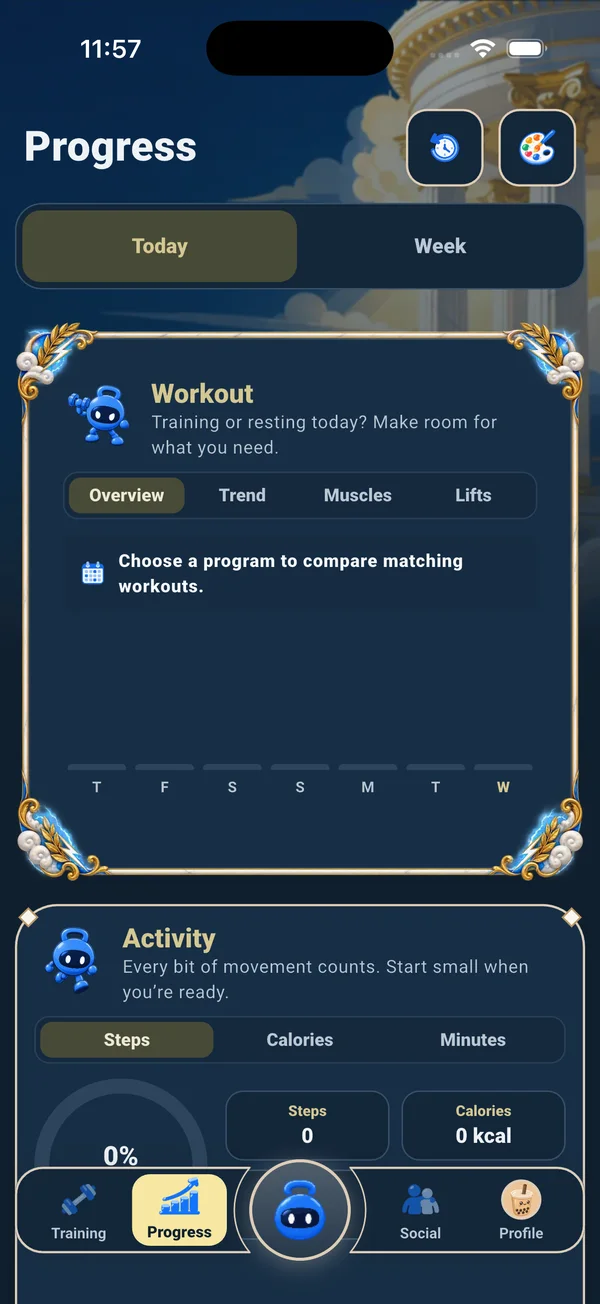
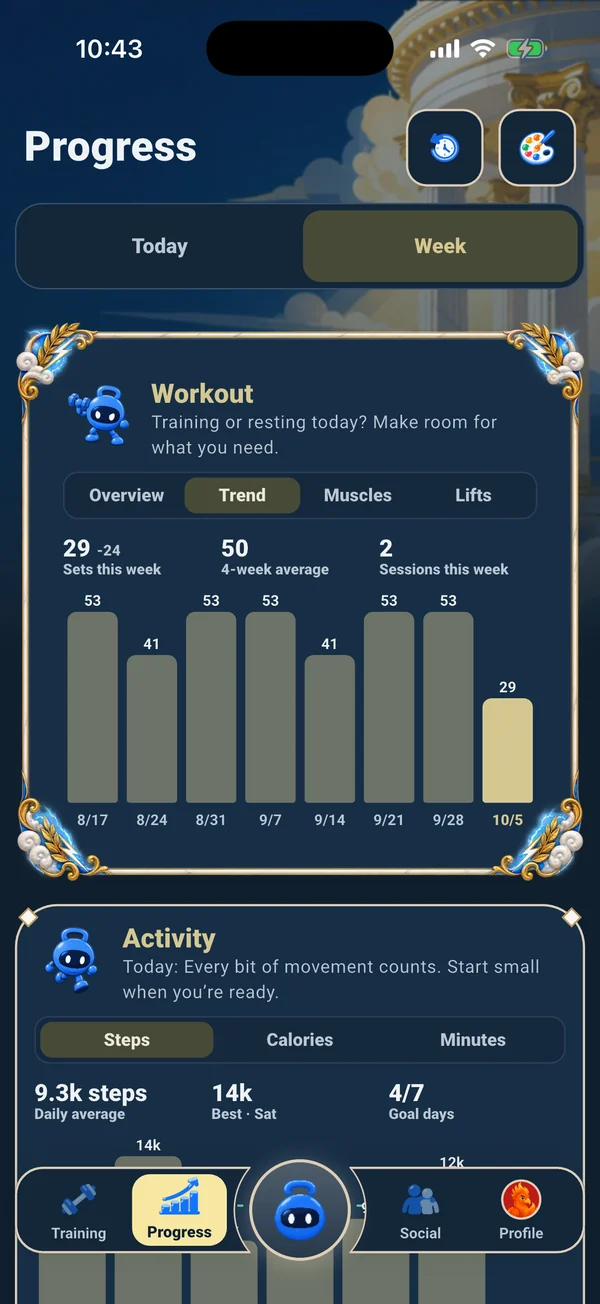
Home: real app screens from a demo lifter, plus a Workout screen
The five app screens were empty first-run states with Eric's own profile.
They're now captured from the real app (iOS Simulator) with a fictional demo
lifter, Jordan: 12 weeks of an upper/lower plan, friends, a leaderboard and an
Orbi answer grounded in the log. A live Workout screen joins the Log section,
whose copy is about next-set targets and rest timers. Tap spots now land on
the control that leads to the next screen.

Captured with Ora's tool/marketing/capture_screenshots.sh.

Claude-Session: https://claude.ai/code/session_01AwWCd8X1zcnjjsXFRjSWcL

diff --git a/index.html b/index.html
@@ -492,12 +492,12 @@ nav a.home{display:block}
   <h2>Every set, <span class="grad">two taps.</span></h2>
   <p class="lead">Next-set targets, rest timers and quick swaps keep up with your session instead of slowing it down. Your progress builds itself.</p>
   <a class="cta ghost" href="#rewards">See what you earn →</a>
-  <div class="screens" id="screenNames" role="group" aria-label="Show a screen"><button class="on">Training</button><button>Orbi</button><button>Progress</button><button>Profile</button><button>Social</button></div>
+  <div class="screens" id="screenNames" role="group" aria-label="Show a screen"><button class="on">Training</button><button>Workout</button><button>Orbi</button><button>Progress</button><button>Profile</button><button>Social</button></div>
   <div class="fine">Beta screens.</div>
   <div class="slot logslot" data-slot></div>
 </div><div class="stage" id="stage"><div class="tilt" id="tilt">
-  <div class="phone p1"><div class="scr"><img class="on" src="/assets/home/app_training.webp" alt="Ora's Training tab" data-name="Training" data-tap="50,77"><img src="/assets/home/app_coach.webp" alt="Orbi coach chat" data-name="Orbi" data-tap="40,88"></div><i class="tap"></i><i class="glare"></i></div>
-  <div class="phone p2"><div class="scr"><img class="on" src="/assets/home/app_progress.webp" alt="Ora's Progress tab" data-name="Progress" data-tap="70,14"><img src="/assets/home/app_profile.webp" alt="Ora's Profile tab" data-name="Profile" data-tap="30,60"><img src="/assets/home/app_social.webp" alt="Ora's Social tab" data-name="Social" data-tap="50,30"></div><i class="tap"></i><i class="glare"></i></div>
+  <div class="phone p1"><div class="scr"><img class="on" src="/assets/home/app_training.webp" alt="Ora's Training tab: today's Upper B workout, steps and this week's sessions" data-name="Training" data-tap="50,40"><img src="/assets/home/app_workout.webp" alt="A workout in progress: last week's numbers, the next-set target and rest timers" data-name="Workout" data-tap="86,20"><img src="/assets/home/app_coach.webp" alt="Orbi answering whether to add weight to bench, from the lifter's own log" data-name="Orbi" data-tap="11,94"></div><i class="tap"></i><i class="glare"></i></div>
+  <div class="phone p2"><div class="scr"><img class="on" src="/assets/home/app_progress.webp" alt="Ora's Progress tab: eight weeks of hard sets and a week of steps" data-name="Progress" data-tap="87,94"><img src="/assets/home/app_profile.webp" alt="Ora's Profile tab: level, badges, best lift and streak" data-name="Profile" data-tap="71,94"><img src="/assets/home/app_social.webp" alt="Ora's Social tab: friends at the gym and the weekly leaderboard" data-name="Social" data-tap="31,94"></div><i class="tap"></i><i class="glare"></i></div>
 </div></div></section>
 
 <section id="rewards" data-hue="#2a1b6b"><div class="slot mid" data-slot></div><div class="copy">
